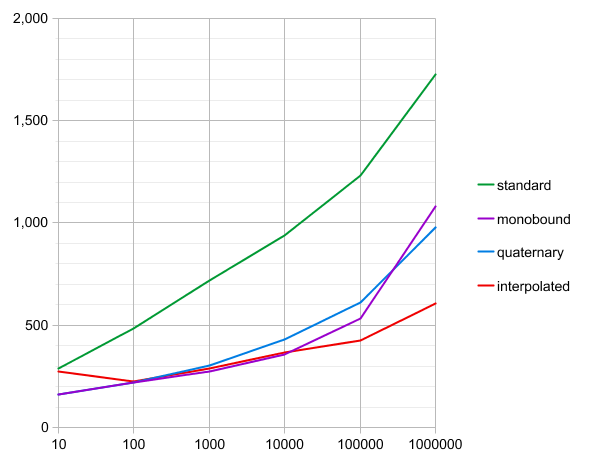
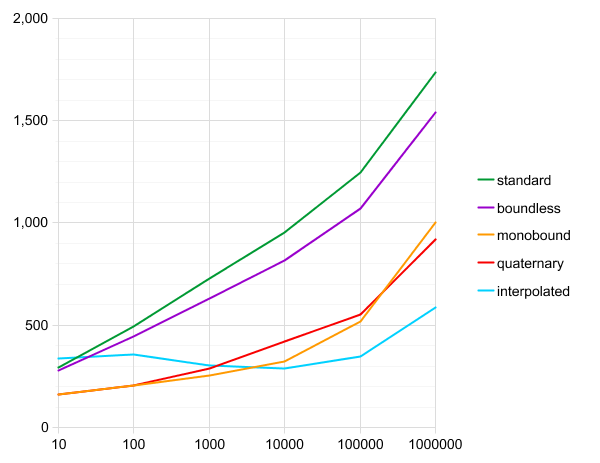
v1.6

diff --git a/binary-search.c b/binary-search.c
@@ -20,7 +20,7 @@
 */
 
 /*
-	Binary Search v1.5
+	Binary Search v1.6
 
 	Compile using: gcc -O3 binary-search.c
 */
@@ -36,7 +36,7 @@
 int checks;
 
 
-// This is the standard binary search from text books
+// the standard binary search from text books
 
 int standard_binary_search(int *array, int array_size, int key)
 {
@@ -70,44 +70,7 @@ int standard_binary_search(int *array, int array_size, int key)
 	return -1;
 }
 
-// slightly faster than the standard binary search
-
-int tailed_binary_search(int *array, int array_size, int key)
-{
-	int i, mid, bot;
-
-	bot = 0;
-	i = array_size - 1;
-	mid = i / 2;
-
-	while (mid)
-	{
-		++checks;
-
-		if (key < array[i - mid])
-		{
-			i -= mid + 1;
-		}
-		else
-		{
-			bot = i - mid;
-		}
-		mid = (i - bot) / 2;
-	}
-
-	if (bot < i && ++checks && key < array[i])
-	{
-		--i;
-	}
-
-	++checks;
-
-	if (key == array[i])
-	{
-		return i;
-	}
-	return -1;
-}
+// faster than the standard binary search, same number of checks
 
 int boundless_binary_search(int *array, int array_size, int key)
 {
@@ -122,9 +85,9 @@ int boundless_binary_search(int *array, int array_size, int key)
 
 		if (key >= array[i + mid / 2])
 		{
-			i += mid / 2;
+			i += mid++ / 2;
 		}
-		mid = mid / 2 + mid % 2;
+		mid /= 2;
 	}
 
 	++checks;
@@ -136,55 +99,7 @@ int boundless_binary_search(int *array, int array_size, int key)
 	return -1;
 }
 
-int inbound_binary_search(int *array, int array_size, int key)
-{
-	unsigned int mid, i;
-
-	mid = array_size - array_size / 2;
-
-	++checks;
-
-	if (key < array[mid])
-	{
-		i = 0;
-
-		while (mid > 1)
-		{
-			mid -= mid / 2;
-
-			++checks;
-
-			if (key >= array[i + mid])
-			{
-				i += mid;
-			}
-		}
-	}
-	else
-	{
-		i = array_size - 1;
-
-		while (mid > 1)
-		{
-			mid -= mid / 2;
-
-			++checks;
-
-			if (key <= array[i - mid])
-			{
-				i -= mid;
-			}
-		}
-	}
-
-	++checks;
-
-	if (key == array[i])
-	{
-		return i;
-	}
-	return -1;
-}
+// faster than the boundless binary search, more checks
 
 int monobound_binary_search(int *array, int array_size, int key)
 {
@@ -227,25 +142,28 @@ int monobound_quaternary_search(int *array, int array_size, int key)
 	while (top >= 512)
 	{
 		mid = top / 4;
+		top -= mid * 3;
 
 		++checks;
-		if (key >= array[bot + mid])
+		if (key < array[bot + mid])
 		{
-			bot += mid;
-
-			++checks;
-			if (key >= array[bot + mid])
-			{
-				bot += mid;
-
-				++checks;
-				if (key >= array[bot + mid])
-				{
-					bot += mid;
-				}
-			}
+			continue;
 		}
-		top -= mid * 3;
+		bot += mid;
+
+		++checks;
+		if (key < array[bot + mid])
+		{
+			continue;
+		}
+		bot += mid;
+
+		++checks;
+		if (key < array[bot + mid])
+		{
+			continue;
+		}
+		bot += mid;
 	}
 
 	while (top > 1)
@@ -274,20 +192,22 @@ int monobound_quaternary_search(int *array, int array_size, int key)
 
 int monobound_interpolated_search(int *array, int array_size, int key)
 {
-	unsigned int top;
-	int mid, i, min, max;
+	unsigned int top, mid, i;
+	int min, max;
 
-	i = array_size - 1;
+	++checks;
 
-	if (i <= 0)
+	if (key <= array[0] || array_size <= 1)
 	{
 		return ++checks && array[0] == key ? 0 : -1;
 	}
 
+	i = array_size - 1;
+
 	min = array[0];
 	max = array[i];
 
-	if (max - min)
+	if (max != min)
 	{
 		i *= (float) (key - min) / (max - min);
 	}
@@ -296,7 +216,7 @@ int monobound_interpolated_search(int *array, int array_size, int key)
 
 	if (key >= array[i])
 	{
-		mid = 4;
+		mid = 64;
 
 		while (1)
 		{
@@ -336,11 +256,11 @@ int monobound_interpolated_search(int *array, int array_size, int key)
 	}
 	else
 	{
-		mid = 4;
+		mid = 64;
 
 		while (1)
 		{
-			if (i - mid < 0)
+			if (i < mid)
 			{
 				mid = i;
 				break;
@@ -484,12 +404,12 @@ int main(int argc, char **argv)
 	printf("| %30s | %10s | %10s | %10s | %10s | %10s |\n", "----------", "----------", "----------", "----------", "----------", "----------");
 
 	run(standard_binary_search);
-	run(tailed_binary_search);
 	run(boundless_binary_search);
-	run(inbound_binary_search);
 	run(monobound_binary_search);
 	run(monobound_quaternary_search);
 	run(monobound_interpolated_search);
+
+	return 0;
 
 	// uneven distribution
 
